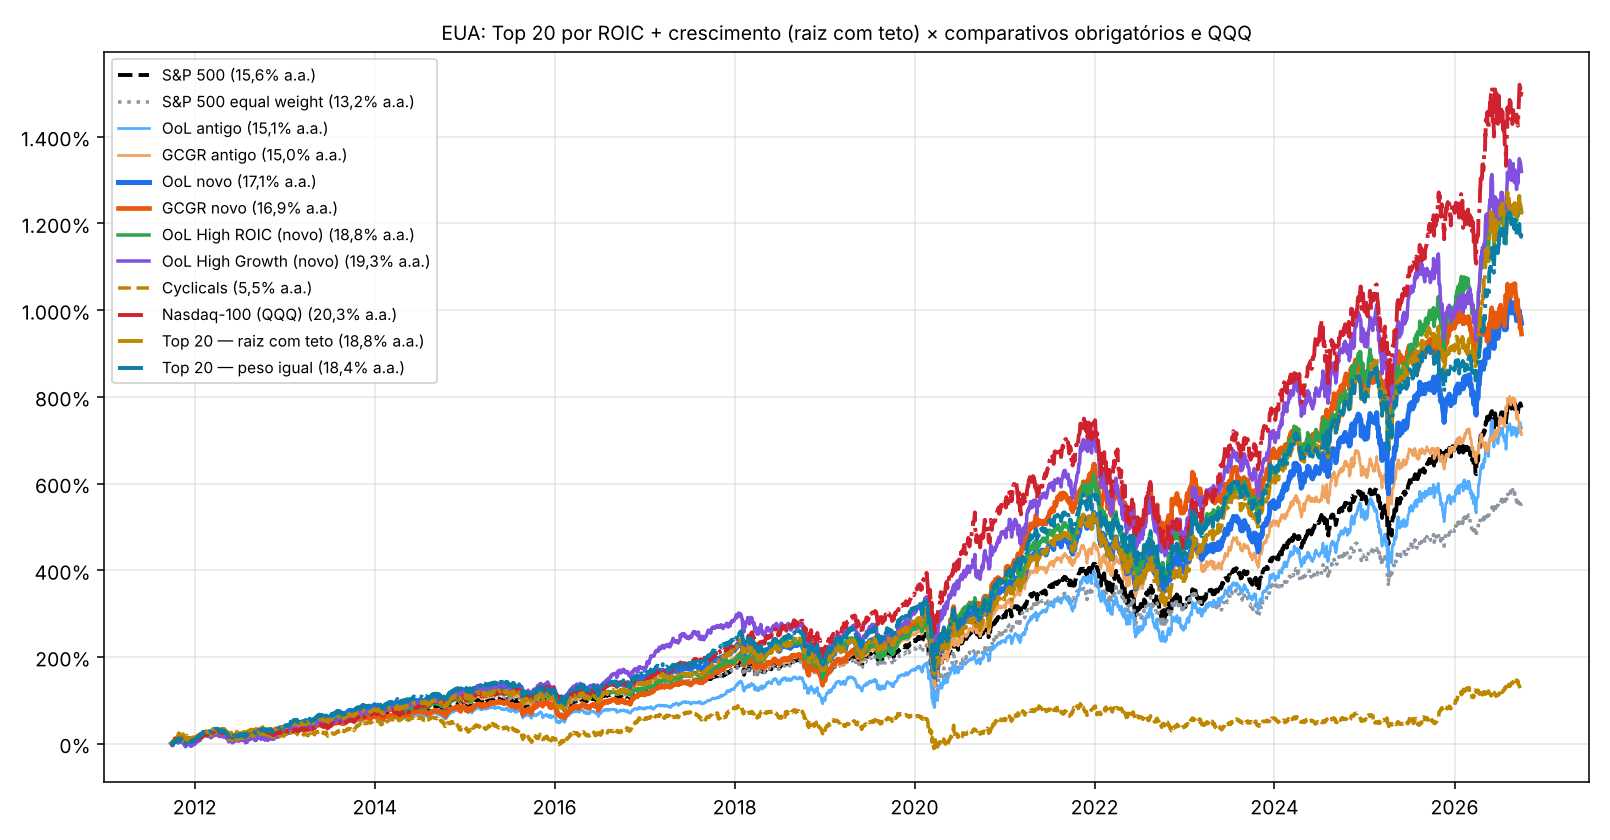
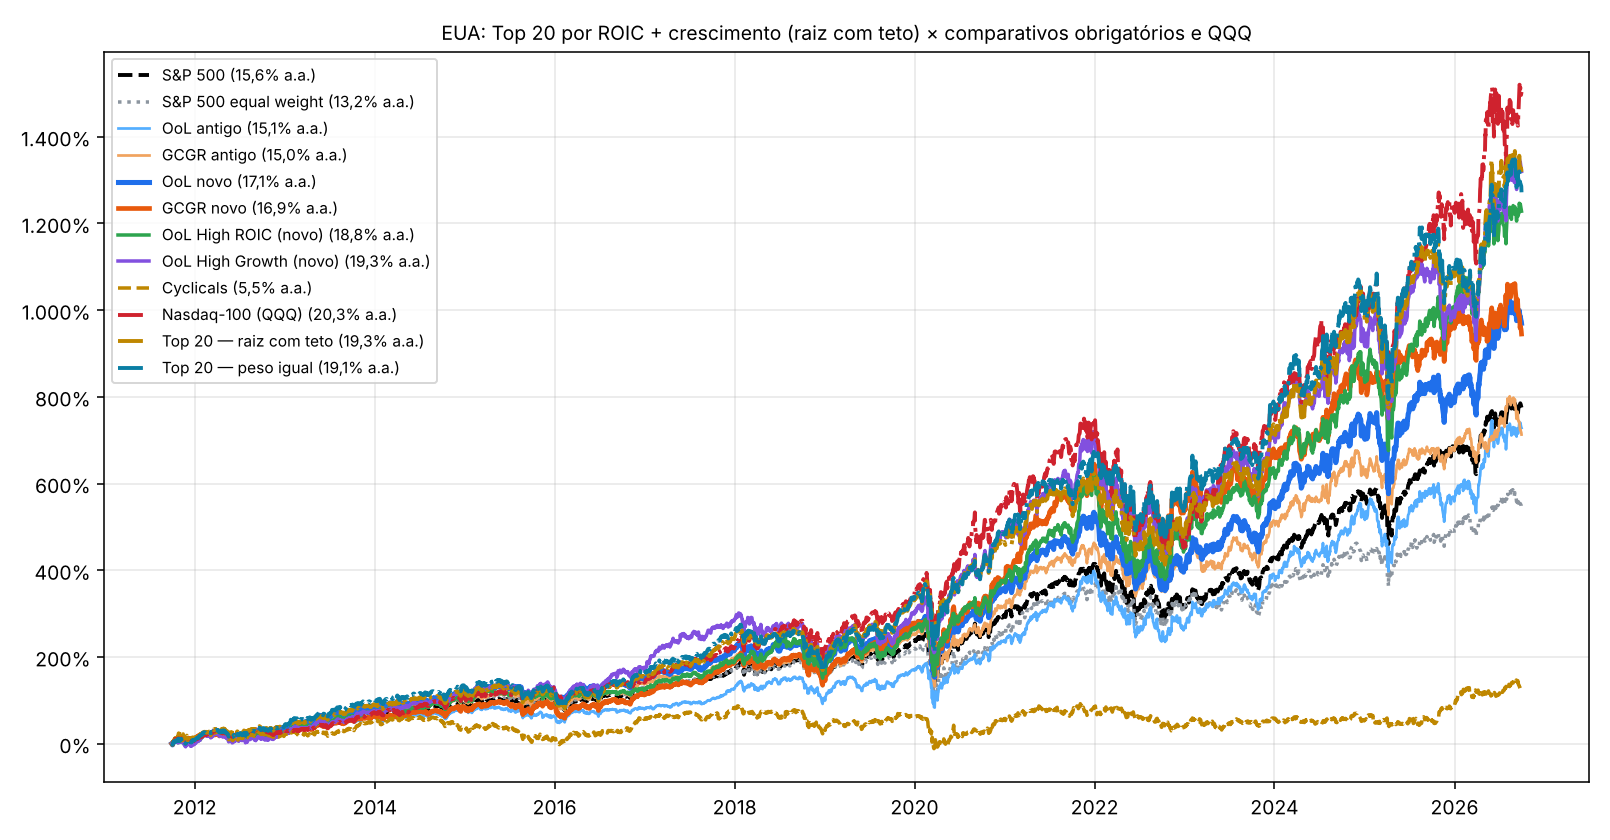
Filtro de crescimento so no ultimo ano: tambem piora
Claude-Session: https://claude.ai/code/session_0163Rqzt5kBig7h4xGh44EtX

diff --git a/price_tracker/backtest/top_ret_filtro.py b/price_tracker/backtest/top_ret_filtro.py
@@ -1,4 +1,4 @@
-"""Top N por retorno esperado + filtros do usuario (2026-11-10): fora se alguma taxa anual de crescimento do lucro nos 5 anos > 150%
+"""Top N por retorno esperado + filtros do usuario (2026-11-10): fora se o crescimento do lucro no ULTIMO ano (y/y) > 150%
 ou se P/L < 6. Saidas: backtest/top_ret_filtro.md, backtest/top_ret_filtro.png. Uso: python3 backtest/top_ret_filtro.py"""
 import sys, pathlib
 import numpy as np, pandas as pd
@@ -10,7 +10,7 @@ GMAX, PEMIN = 1.5, 6.0
 
 
 def us(el):
-    g = el[[f'gy{i}' for i in range(1, 6)]].max(axis=1)
+    g = el.gy5
     pe = el.price / el.eps.where(el.eps > 0)
     return ~(g > GMAX) & ~(pe < PEMIN)
 
@@ -20,8 +20,8 @@ def br(elb, fund, cvm):
     for r in elb.itertuples():
         f = fund[(fund.CD_CVM == cvm.get(r.ticker)) & (fund.DT_RECEB <= r.date)]
         f = f.sort_values(['DT_RECEB']).groupby('fy').tail(1).set_index('fy').ni
-        rates = [f.get(y) / f.get(y - 1) - 1 for y in range(int(r.last_fy) - 4, int(r.last_fy) + 1)
-                 if pd.notna(f.get(y)) and pd.notna(f.get(y - 1)) and f.get(y - 1) > 0]
+        y = int(r.last_fy)
+        rates = [f.get(y) / f.get(y - 1) - 1] if pd.notna(f.get(y)) and pd.notna(f.get(y - 1)) and f.get(y - 1) > 0 else []
         pe = r.price / r.eps if r.eps and r.eps > 0 else np.nan
         keep.append(not (rates and max(rates) > GMAX) and not (pe < PEMIN))
     return np.array(keep, dtype=bool)
@@ -33,7 +33,7 @@ if __name__ == '__main__':
     bak = {p: (ROOT / p).read_bytes() for p in ('top_ret.md', 'top_ret.png') if (ROOT / p).exists()}
     top_ret.main()
     src = (ROOT / 'top_ret.md').read_text().replace('# Carteira de tamanho fixo: as 20 de maior retorno esperado entre as de qualidade (EUA e Brasil)',
-        '# Top 20 por retorno esperado + filtros: fora crescimento anual > 150% e P/L < 6 (EUA e Brasil)')
+        '# Top 20 por retorno esperado + filtros: fora crescimento do lucro no último ano > 150% e P/L < 6 (EUA e Brasil)')
     src = src.replace('sem o corte de 20%; ficam as N maiores.', 'sem o corte de 20%; ficam as N maiores. **Fora:** alguma taxa anual de crescimento do lucro > 150% nos 5 anos, ou P/L < 6.')
     (ROOT / 'top_ret_filtro.md').write_text(src); (ROOT / 'top_ret.png').replace(ROOT / 'top_ret_filtro.png')
     for p, b in bak.items(): (ROOT / p).write_bytes(b)

diff --git a/price_tracker/backtest/top_ret_filtro.md b/price_tracker/backtest/top_ret_filtro.md
@@ -1,4 +1,4 @@
-# Top 20 por retorno esperado + filtros: fora crescimento anual > 150% e P/L < 6 (EUA e Brasil)
+# Top 20 por retorno esperado + filtros: fora crescimento do lucro no último ano > 150% e P/L < 6 (EUA e Brasil)
 
 > ⚠ **ROIC:** a nota usa o ROIC do modelo (oficial nos EUA; clássico no Brasil). Casos de ROIC aberrante (patrimônio negativo, empresas leves em ativos) ainda estão em aberto e podem subir no ranking.
 
@@ -18,41 +18,41 @@
 | OoL High Growth (novo) | 1319,9% | 19,3% | 21,8% | -35,0% | 16 | 90% | 100% |
 | Cyclicals | 122,3% | 5,5% | 23,6% | -52,8% | 5 | 0% | 0% |
 | Nasdaq-100 (QQQ) | 1503,4% | 20,3% | 20,6% | -35,1% | — | 100% | 100% |
-| Top 20 — raiz com teto | 1220,4% | 18,8% | 19,7% | -38,1% | 20 | 93% | 100% |
-| Top 20 — peso igual | 1164,4% | 18,4% | 19,7% | -38,1% | 20 | 92% | 100% |
-| Top 15 — raiz com teto | 1423,8% | 19,9% | 20,3% | -39,1% | 15 | 98% | 100% |
-| Top 15 — peso igual | 1316,8% | 19,3% | 20,1% | -37,9% | 15 | 89% | 100% |
-| Top 10 — raiz com teto | 1412,2% | 19,8% | 21,3% | -34,2% | 10 | 89% | 100% |
-| Top 10 — peso igual | 1405,2% | 19,8% | 21,1% | -36,3% | 10 | 86% | 100% |
+| Top 20 — raiz com teto | 1309,8% | 19,3% | 19,7% | -32,2% | 20 | 100% | 100% |
+| Top 20 — peso igual | 1271,9% | 19,1% | 20,0% | -32,9% | 20 | 90% | 100% |
+| Top 15 — raiz com teto | 1265,6% | 19,0% | 20,3% | -30,3% | 15 | 96% | 100% |
+| Top 15 — peso igual | 1211,1% | 18,7% | 20,7% | -33,8% | 15 | 88% | 100% |
+| Top 10 — raiz com teto | 1789,3% | 21,6% | 21,0% | -30,0% | 10 | 100% | 100% |
+| Top 10 — peso igual | 1704,7% | 21,3% | 21,3% | -33,3% | 10 | 100% | 100% |
 
 ### Alfa contra Fama-French 5 + momentum + qualidade (mensal, Newey-West)
 
 | Carteira | Alfa a.a. | t | R² |
 |---|---|---|---|
-| Top 20 — raiz com teto | +2,2 | 1,11 | 0,84 |
-| Top 20 — peso igual | +2,5 | 1,32 | 0,85 |
-| Top 15 — raiz com teto | +3,9 | 1,58 | 0,79 |
-| Top 15 — peso igual | +3,8 | 1,69 | 0,82 |
-| Top 10 — raiz com teto | +4,6 | 1,47 | 0,71 |
-| Top 10 — peso igual | +4,8 | 1,65 | 0,77 |
+| Top 20 — raiz com teto | +3,5 | 1,53 | 0,83 |
+| Top 20 — peso igual | +3,4 | 1,44 | 0,85 |
+| Top 15 — raiz com teto | +3,8 | 1,43 | 0,78 |
+| Top 15 — peso igual | +3,2 | 1,22 | 0,80 |
+| Top 10 — raiz com teto | +6,2 | 1,88 | 0,71 |
+| Top 10 — peso igual | +5,3 | 1,70 | 0,73 |
 | OoL novo | +0,9 | 0,71 | 0,91 |
 | Nasdaq-100 (QQQ) | +3,1 | 2,19 | 0,92 |
 
-Top 20 nos EUA: 20–20 ações por trimestre; troca média de 20% dos nomes por trimestre; setores: Information Technology 25%, Industrials 19%, Consumer Discretionary 18%, Financials 14%.
+Top 20 nos EUA: 20–20 ações por trimestre; troca média de 21% dos nomes por trimestre; setores: Information Technology 28%, Consumer Discretionary 21%, Industrials 16%, Health Care 10%.
 
-**Top 20 de hoje (EUA, 09/2026):** MO, EXPE, HIG, CMG, WRB, FIX, TRV, LII, GL, QCOM, META, TROW, AMZN, GOOG, PPG, GOOGL, FSLR, DXCM, NFLX, INTU
+**Top 20 de hoje (EUA, 09/2026):** COIN, SMCI, APP, NVDA, LYV, MO, PODD, PGR, EXPE, BKNG, EME, SBAC, HIG, STX, PTC, CMG, WRB, FIX, TRV, LII
 
 
 ## 2. Brasil (fora da amostra, 06/2014 a 09/2026, em reais)
 
 | Carteira | Ações (média) | Retorno anual | vs Ibovespa | Pior queda | Janelas 3a > Ibov | Janelas 5a > Ibov |
 |---|---|---|---|---|---|---|
-| Top 20 — raiz com teto | 12 | **7,7%** | -3,2 | -45,9% | 40% | 61% |
-| Top 20 — peso igual | 12 | **7,2%** | -3,7 | -45,9% | 39% | 52% |
-| Top 15 — raiz com teto | 10 | **9,5%** | -1,4 | -44,4% | 44% | 69% |
-| Top 15 — peso igual | 10 | **7,6%** | -3,3 | -45,9% | 39% | 52% |
-| Top 10 — raiz com teto | 9 | **9,8%** | -1,1 | -42,7% | 46% | 66% |
-| Top 10 — peso igual | 9 | **8,0%** | -2,9 | -45,9% | 43% | 41% |
+| Top 20 — raiz com teto | 15 | **9,9%** | -1,0 | -44,2% | 56% | 69% |
+| Top 20 — peso igual | 15 | **9,1%** | -1,8 | -47,0% | 54% | 68% |
+| Top 15 — raiz com teto | 13 | **10,5%** | -0,4 | -44,4% | 60% | 70% |
+| Top 15 — peso igual | 13 | **9,7%** | -1,2 | -47,0% | 54% | 68% |
+| Top 10 — raiz com teto | 9 | **11,0%** | +0,1 | -46,7% | 69% | 91% |
+| Top 10 — peso igual | 9 | **11,1%** | +0,2 | -48,6% | 71% | 82% |
 | Universo (todas as classificadas), peso igual | — | **11,9%** | +1,0 | -49,3% | 73% | 84% |
 | Ibovespa (BOVA11) | — | **10,9%** | +0,0 | -46,9% | 0% | 0% |
 | Small caps (SMAL11) | — | **4,9%** | -6,0 | -51,1% | 46% | 39% |

diff --git a/price_tracker/backtest/top_n.md b/price_tracker/backtest/top_n.md
@@ -18,41 +18,41 @@
 | OoL High Growth (novo) | 1319,9% | 19,3% | 21,8% | -35,0% | 16 | 90% | 100% |
 | Cyclicals | 122,3% | 5,5% | 23,6% | -52,8% | 5 | 0% | 0% |
 | Nasdaq-100 (QQQ) | 1503,4% | 20,3% | 20,6% | -35,1% | — | 100% | 100% |
-| Top 20 — raiz com teto | 1220,4% | 18,8% | 19,7% | -38,1% | 20 | 93% | 100% |
-| Top 20 — peso igual | 1164,4% | 18,4% | 19,7% | -38,1% | 20 | 92% | 100% |
-| Top 15 — raiz com teto | 1423,8% | 19,9% | 20,3% | -39,1% | 15 | 98% | 100% |
-| Top 15 — peso igual | 1316,8% | 19,3% | 20,1% | -37,9% | 15 | 89% | 100% |
-| Top 10 — raiz com teto | 1412,2% | 19,8% | 21,3% | -34,2% | 10 | 89% | 100% |
-| Top 10 — peso igual | 1405,2% | 19,8% | 21,1% | -36,3% | 10 | 86% | 100% |
+| Top 20 — raiz com teto | 1309,8% | 19,3% | 19,7% | -32,2% | 20 | 100% | 100% |
+| Top 20 — peso igual | 1271,9% | 19,1% | 20,0% | -32,9% | 20 | 90% | 100% |
+| Top 15 — raiz com teto | 1265,6% | 19,0% | 20,3% | -30,3% | 15 | 96% | 100% |
+| Top 15 — peso igual | 1211,1% | 18,7% | 20,7% | -33,8% | 15 | 88% | 100% |
+| Top 10 — raiz com teto | 1789,3% | 21,6% | 21,0% | -30,0% | 10 | 100% | 100% |
+| Top 10 — peso igual | 1704,7% | 21,3% | 21,3% | -33,3% | 10 | 100% | 100% |
 
 ### Alfa contra Fama-French 5 + momentum + qualidade (mensal, Newey-West)
 
 | Carteira | Alfa a.a. | t | R² |
 |---|---|---|---|
-| Top 20 — raiz com teto | +2,2 | 1,11 | 0,84 |
-| Top 20 — peso igual | +2,5 | 1,32 | 0,85 |
-| Top 15 — raiz com teto | +3,9 | 1,58 | 0,79 |
-| Top 15 — peso igual | +3,8 | 1,69 | 0,82 |
-| Top 10 — raiz com teto | +4,6 | 1,47 | 0,71 |
-| Top 10 — peso igual | +4,8 | 1,65 | 0,77 |
+| Top 20 — raiz com teto | +3,5 | 1,53 | 0,83 |
+| Top 20 — peso igual | +3,4 | 1,44 | 0,85 |
+| Top 15 — raiz com teto | +3,8 | 1,43 | 0,78 |
+| Top 15 — peso igual | +3,2 | 1,22 | 0,80 |
+| Top 10 — raiz com teto | +6,2 | 1,88 | 0,71 |
+| Top 10 — peso igual | +5,3 | 1,70 | 0,73 |
 | OoL novo | +0,9 | 0,71 | 0,91 |
 | Nasdaq-100 (QQQ) | +3,1 | 2,19 | 0,92 |
 
-Top 20 nos EUA: 20–20 ações por trimestre; troca média de 20% dos nomes por trimestre; setores: Information Technology 25%, Industrials 19%, Consumer Discretionary 18%, Financials 14%.
+Top 20 nos EUA: 20–20 ações por trimestre; troca média de 21% dos nomes por trimestre; setores: Information Technology 28%, Consumer Discretionary 21%, Industrials 16%, Health Care 10%.
 
-**Top 20 de hoje (EUA, 09/2026):** MO, EXPE, HIG, CMG, WRB, FIX, TRV, LII, GL, QCOM, META, TROW, AMZN, GOOG, PPG, GOOGL, FSLR, DXCM, NFLX, INTU
+**Top 20 de hoje (EUA, 09/2026):** COIN, SMCI, APP, NVDA, LYV, MO, PODD, PGR, EXPE, BKNG, EME, SBAC, HIG, STX, PTC, CMG, WRB, FIX, TRV, LII
 
 
 ## 2. Brasil (fora da amostra, 06/2014 a 09/2026, em reais)
 
 | Carteira | Ações (média) | Retorno anual | vs Ibovespa | Pior queda | Janelas 3a > Ibov | Janelas 5a > Ibov |
 |---|---|---|---|---|---|---|
-| Top 20 — raiz com teto | 12 | **7,7%** | -3,2 | -45,9% | 40% | 61% |
-| Top 20 — peso igual | 12 | **7,2%** | -3,7 | -45,9% | 39% | 52% |
-| Top 15 — raiz com teto | 10 | **9,5%** | -1,4 | -44,4% | 44% | 69% |
-| Top 15 — peso igual | 10 | **7,6%** | -3,3 | -45,9% | 39% | 52% |
-| Top 10 — raiz com teto | 9 | **9,8%** | -1,1 | -42,7% | 46% | 66% |
-| Top 10 — peso igual | 9 | **8,0%** | -2,9 | -45,9% | 43% | 41% |
+| Top 20 — raiz com teto | 15 | **9,9%** | -1,0 | -44,2% | 56% | 69% |
+| Top 20 — peso igual | 15 | **9,1%** | -1,8 | -47,0% | 54% | 68% |
+| Top 15 — raiz com teto | 13 | **10,5%** | -0,4 | -44,4% | 60% | 70% |
+| Top 15 — peso igual | 13 | **9,7%** | -1,2 | -47,0% | 54% | 68% |
+| Top 10 — raiz com teto | 9 | **11,0%** | +0,1 | -46,7% | 69% | 91% |
+| Top 10 — peso igual | 9 | **11,1%** | +0,2 | -48,6% | 71% | 82% |
 | Universo (todas as classificadas), peso igual | — | **11,9%** | +1,0 | -49,3% | 73% | 84% |
 | Ibovespa (BOVA11) | — | **10,9%** | +0,0 | -46,9% | 0% | 0% |
 | Small caps (SMAL11) | — | **4,9%** | -6,0 | -51,1% | 46% | 39% |

diff --git a/price_tracker/PROTOCOLO.md b/price_tracker/PROTOCOLO.md
@@ -120,3 +120,7 @@ amostra documentado na literatura), além de custos e do resultado do teste de l
   EUA e Brasil (no Brasil, crescimento do lucro líquido dos controladores, como no modelo brasileiro). Exploratória até o Japão.
 - 2026-11-10 — **Resultado dos filtros (crescimento anual > 150% e P/L < 6 fora): piorou nos dois países.** EUA 18,8% a.a. (sem os filtros 19,7%;
   pior queda −38,1% contra −28,6%). Brasil 7,7% a.a. (sem os filtros 12,5%; Ibovespa 10,9%). Filtros rejeitados; fica a Top 20 sem eles.
+- 2026-11-10 — **Correção de leitura:** o usuário quis o filtro de crescimento só no **último ano** (y/y > 150%), não em qualquer um dos 5 anos
+  (que tirava 46% das posições). Com a leitura certa saem 10% das posições. O teste anterior fica registrado como leitura errada; roda-se o correto.
+- 2026-11-10 — **Resultado com a leitura certa (último ano > 150% ou P/L < 6 fora):** EUA 19,3% a.a. (sem filtro 19,7%; pior queda −32,2% contra
+  −28,6%). Brasil 9,9% a.a. (sem filtro 12,5%; Ibovespa 10,9%). Também piora; filtros rejeitados.
